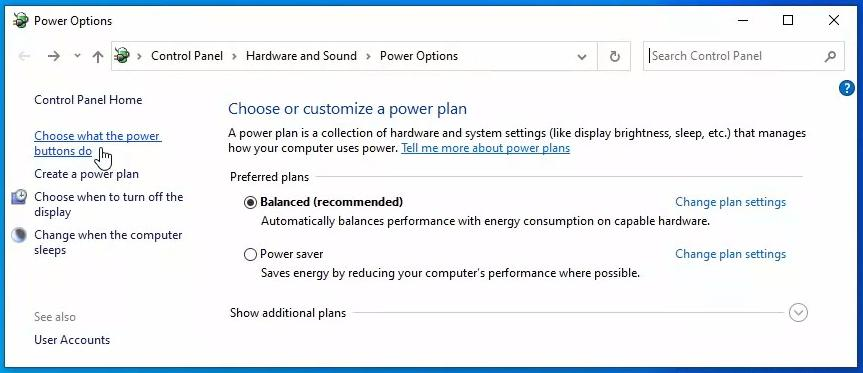
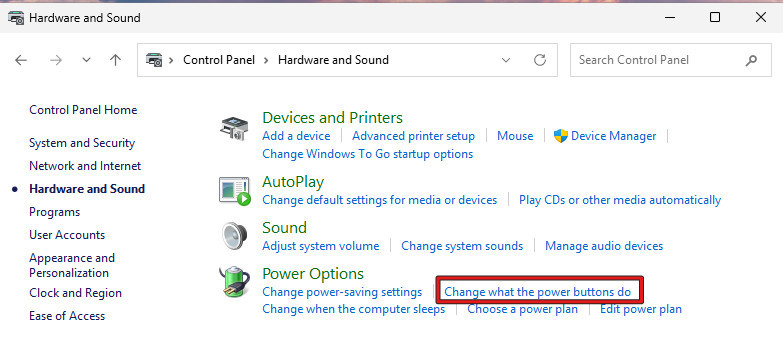
Revised second image to reflect the removal of a previous step and improved wording.

diff --git a/content/windows.md b/content/windows.md
@@ -528,7 +528,7 @@ It is also recommended to disable "Fast Startup" within Windows to avoid problem
 
 ![Accessing additional power settings in Windows](/images/dual-booting/windows-power-settings-1.jpg)
 
-In the Control Panel, click on `Hardware and Sound`, then select `Choose a power plan`, followed by `Choose what the power buttons do` in the left sidebar.
+In the Control Panel, click on `Hardware and Sound`, then select `Choose what the power buttons do`.
 
 ![Accessing additional power settings in Windows](/images/dual-booting/windows-power-settings-2.jpg)
 